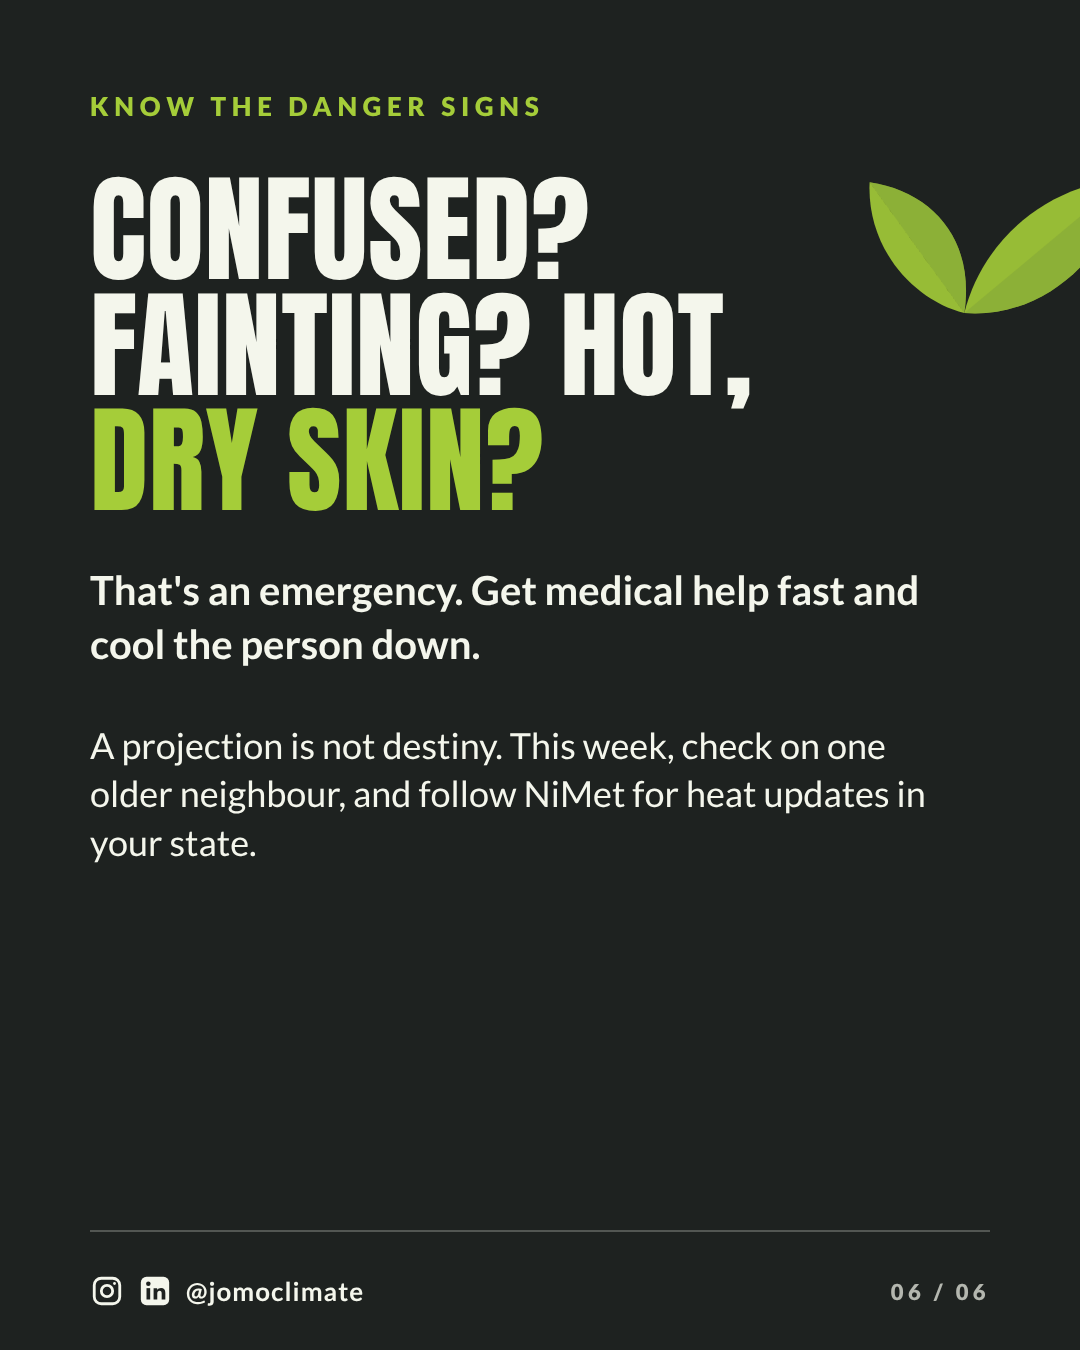
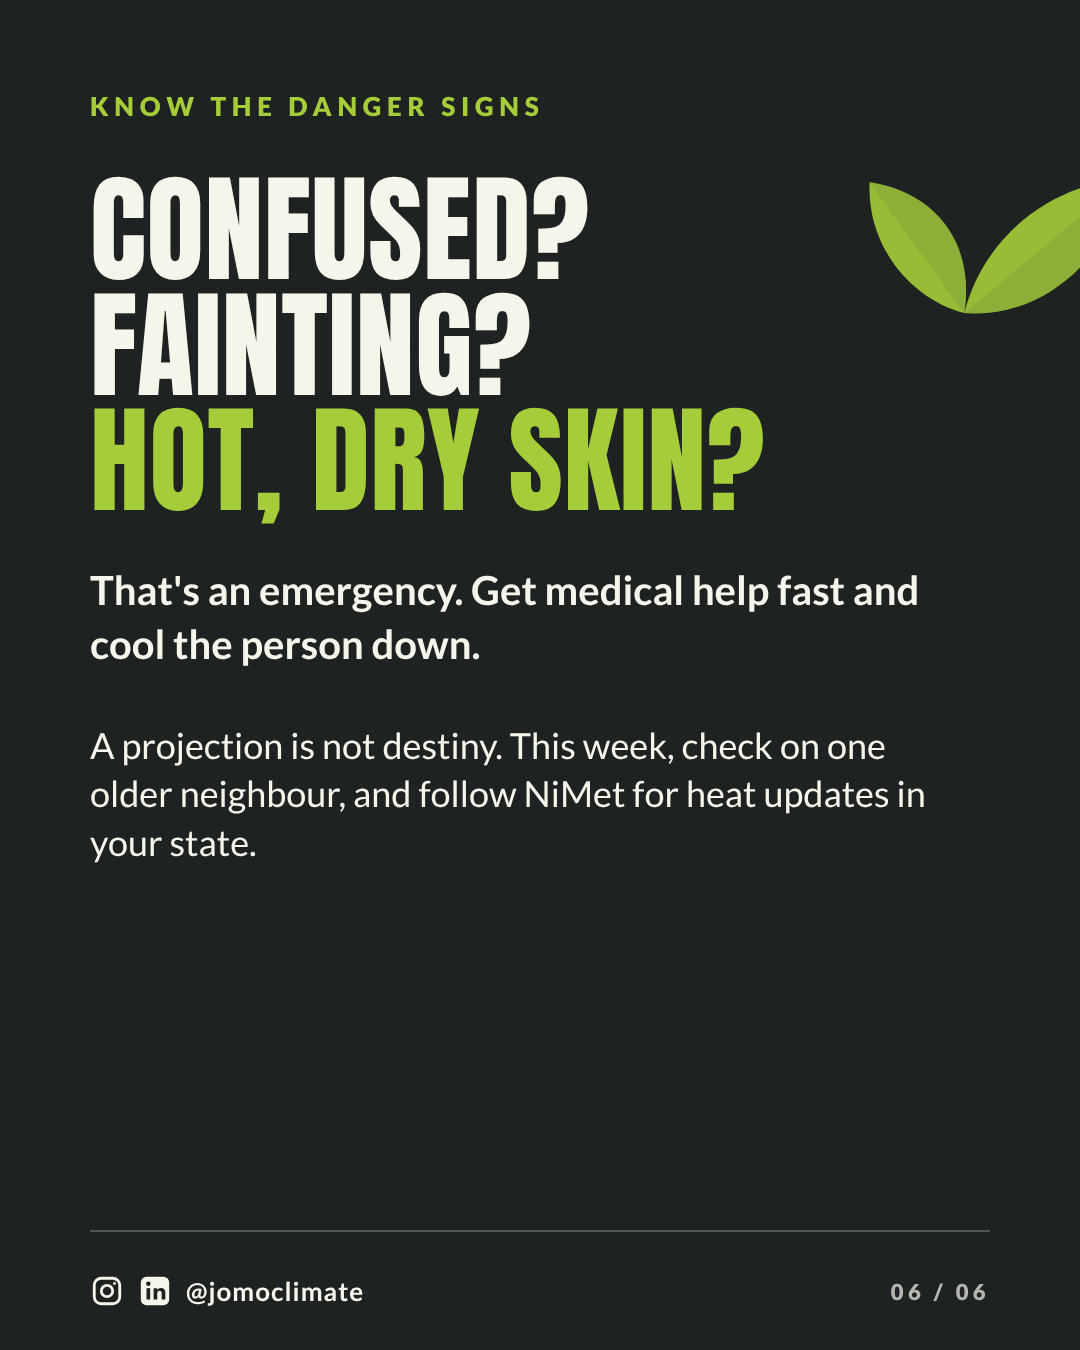
draft: 2026-10-24 super-el-nino policy review fixes (in review)
Claude-Session: https://claude.ai/code/session_01F6NcUsFQ3PsVvfZiAxD4Cd

Changed region(s): [[0.1528, 0.2178, 0.7028, 0.4044], [0.0917, 0.28, 0.1528, 0.3733]]

diff --git a/tools/elnino.py b/tools/elnino.py
@@ -12,7 +12,7 @@ def rel(html):  # keep content above the photo layer
 
 write("elnino-01", page(photo_bg() + rel(f"""
   <div class="label">Climate, explained locally</div>
-  <div class="h" style="font-size:150px;margin-top:70px">Super<br>El Ni&ntilde;o<br>is here.</div>
+  <div class="h" style="font-size:150px;margin-top:70px;line-height:1.12">Super<br>El Ni&ntilde;o<br>is here.</div>
   <div class="h acc" style="font-size:112px;margin-top:40px">Is your family<br>ready for<br>the heat?</div>
 """) + f"""
   <div class="tape" style="background:{LIME};color:{INK};left:90px;bottom:190px;transform:rotate(-4deg)">Swipe &rarr;</div>
@@ -52,7 +52,7 @@ write("elnino-05", page(f"""
   <div class="label">5 heat-smart habits</div>
   <div class="h" style="font-size:112px;margin-top:40px">Heat no be<br>small thing.</div>
   <div style="margin-top:20px">
-    {check("Drink water all day: at least 2 to 3 litres")}
+    {check("Adults: drink water all day,<br>at least 2 to 3 litres")}
     {check("Skip hard work in the hottest hours.<br>Find shade.")}
     {check("Open windows at night, close them<br>and block the sun by day")}
     {check("Light, loose clothes. Cool showers.")}
@@ -62,7 +62,7 @@ write("elnino-05", page(f"""
 
 write("elnino-06", page(f"""
   <div class="label">Know the danger signs</div>
-  <div class="h" style="font-size:118px;margin-top:50px">Confused?<br>Fainting? Hot,<br><span class="acc">dry skin?</span></div>
+  <div class="h" style="font-size:118px;margin-top:50px">Confused?<br>Fainting?<br><span class="acc">Hot, dry skin?</span></div>
   <div class="body" style="margin-top:44px;font-weight:700">That's an emergency. Get medical help fast and cool the person down.</div>
   <div class="body" style="margin-top:50px;font-size:36px;max-width:860px">A projection is not destiny. This week, check on one older neighbour, and follow NiMet for heat updates in your state.</div>
   {sprout(260, extra="right:-30px;top:120px;transform:rotate(14deg);opacity:.9")}
@@ -76,10 +76,10 @@ write("elnino-x-16x9", page(photo_bg("center 50%", ".55,.9") + rel(f"""
 """), "ink", 0, 0, 1600, 900))
 
 write("elnino-story-9x16", page(f"""
-  <div style="height:360px"></div>
+  <style>.foot{{bottom:260px}}</style><div style="height:290px"></div>
   <div class="label">Super El Ni&ntilde;o &middot; heat check</div>
   <div class="h" style="font-size:170px;margin-top:50px">Who are you<br><span class="acc">checking on</span><br>this week?</div>
   <div class="body" style="margin-top:70px;font-size:54px">Grandma. The baby. The neighbour who lives alone. The worker out in the sun all day.</div>
-  <div class="body" style="margin-top:60px;font-weight:700;font-size:54px">Water. Shade. A cool room.<br>And a knock on the door.</div>
+  <div class="body" style="margin-top:60px;font-weight:700;font-size:54px">Shade. A cool room.<br>And a knock on the door.</div>
 """, "ink", 0, 0, 1080, 1920))
 print("ok")

diff --git a/content/posts/2026-10-24-super-el-nino/review.md b/content/posts/2026-10-24-super-el-nino/review.md
@@ -23,3 +23,58 @@ Every source was opened, including the Climate Impact Lab (CIL) PDF report and t
 | "Many of them sit with employers, schools, health workers and community groups" | LinkedIn | JOMO framing, not a factual claim | OK |
 
 All links opened at check time.
+
+## Policy and Safety Review (Policy and Safety Reviewer)
+
+Checked against `references/safety-checklist.md` (all 13 checks), `voice.md`, `brand-guide.md` and `platforms.md`. All 8 PNGs viewed. I did not redo the fact-check. I could not re-open links myself because this session has no web access, so check 12 relies on the fact-checker's "all links opened". Nothing has been published or scheduled.
+
+### Checks that apply to every slot
+
+- **1 Accuracy:** relies on the fact-check above. One overreach in the LinkedIn hook is fixed (see below). One health-advice scope issue is fixed in the captions, but slide 5 still needs it (see below).
+- **2 Consent / 9 Copyright:** the only photo is `cracked-earth-nigeria-01.jpg` (Pexels, Jonathan Yakubu, Pexels License, free commercial use, no people, per `assets/photos/web/SOURCES.csv`). No consent is needed because no people are in it. I saw no watermark on slide 1 or the X image. The credit is on slide 1 and in the IG and FB captions; Pexels doesn't require one. No music and no partner logos. PASS.
+- **3 Engagement bait:** "Who will you check on this week?" is a reflective question. It doesn't ask people to comment, tag, react, share or vote. The story Question sticker ("Your best tip for staying cool?") is a genuine question using a native feature. The LinkedIn question is genuine. PASS.
+- **4 Apolitical:** I found no party, official, slogan or blame. The LinkedIn line "Many of them sit with employers, schools, health workers and community groups, not just with governments" spreads responsibility across groups. It doesn't criticise or credit any government, and it names no official. PASS.
+- **5 Boosting:** this is a public-health and climate post that mentions government-level measures (LinkedIn). If the operator boosts any of it on Meta, Meta may treat it as an ad about a social issue (health / environment). That can need advertiser authorisation and a "Paid for by" disclaimer. Organic posting is not affected. **Recommendation: don't boost**, or complete Meta's ad authorisation first.
+- **6 No shaming:** no people are shown. The child-in-car line is advice, not blame. PASS.
+- **7 Climate claims / hope:** handled responsibly. Every slot that states the figure also says it is a projection, not a count. Slide 2, IG, FB, LinkedIn and X post 1 add that the method is not yet in a peer-reviewed journal. The X image omits that caveat, but X post 1 carries it. The figure is scoped to one study and the Sept 2026 to Feb 2027 window. Fear always comes with a way forward: who to look out for, five habits, danger signs, "a projection is not destiny", and a single small ask ("check on one older neighbour", "follow NiMet"). This meets the "problem, then an action" rule in voice.md. "Super El Niño" is the Climate Impact Lab's term, not NOAA's. The NOAA odds are quoted alongside it, so this is acceptable.
+- **8 AI:** none used. **10 Partners:** none named or tagged. CIL, WHO, NOAA and NiMet are cited as sources, not as partners. **11 Fundraising:** none. **13 Hate/safety:** nothing found. PASS.
+- **12 Links and handles:** the full URLs are official domains (impactlab.org, who.int, cdn.who.int) with no shorteners. @jomoclimate is correct on all 8 PNGs. NiMet is named but not tagged, so there is no handle risk. If the operator wants to tag NiMet, verify its official handle first.
+
+### Slot verdicts
+
+**1. Sat 2026-10-24 18:00 · IG + FB carousel: FIX**
+- Health scope (caption edit applied). The FB caption said "Drink water all day: at least 2 to 3 litres" right after "babies and young children". 2–3 litres is an adult amount, and the line could be read as advice for babies. Edit: `1. Drink water all day: at least 2 to 3 litres.` → `1. Drink water all day: at least 2 to 3 litres for adults.`
+- Slide 5 (not changed, needs Designer): it says "Drink water all day: at least 2 to 3 litres". Suggested text: "Adults: drink water all day, at least 2 to 3 litres". Update the slide 5 alt text to match.
+- Slide 1 (not changed, needs Designer): at this size, the tilde on "NIÑO" seems to collide with the "R" of "SUPER" in the line above. "SUPER" then reads like "SUPEB" and the tilde isn't clear. Increase the line spacing between lines 1 and 2, or check that the Ñ glyph renders. Then check at full size (brand layout rule).
+- Slide 6 (optional): the headline break "FAINTING? HOT, / DRY SKIN?" splits one sign across two lines. A cleaner break is "CONFUSED? / FAINTING? / HOT, DRY SKIN?". The leaf shape sits clear of the text. OK.
+- Platform rules: IG has 4 hashtags at the end (within 3 to 5) and no live links (sources named in plain text). FB links are in the caption. The hook is on the first line. OK.
+
+**2. Sat 2026-10-24 18:30 · X thread: FIX**
+- Same health scope issue (edit applied): `water all day (at least 2–3 litres)` → `water all day (adults: at least 2–3 litres)`.
+- Character counts after the edit (links counted as 23, 🧵 as 2, ñ and en dash as 1): post 1 about 241, post 2 about 150, post 3 about 254, post 4 about 132. All are under 280. 1 hashtag (#ElNino), within 1 to 2. OK.
+- X image: the handle is correct, the text is clear of the edges, and no watermark. OK.
+
+**3. Sun 2026-10-25 10:00 · LinkedIn: FIX**
+- Overreach in the line shown before "see more" (edit applied). "the highest heat death toll" suggests total heat deaths, but the study counts *extra* heat-related deaths against an average year. Edit: `One study projects Nigeria will have the highest heat death toll of any country between September 2026 and February 2027.` → `One study projects more extra heat-related deaths in Nigeria than in any other country between September 2026 and February 2027.` The Hook line was changed the same way.
+- 2 hashtags, no emoji, the opening lines make sense alone, and the post ends with a genuine question and the study link. Apolitical line: PASS (see check 4).
+
+**4. Sun 2026-10-25 16:00 · IG + FB story: FIX**
+- Sticker placement (instruction edit applied). The old instruction put both the Question and link stickers "in the empty space below the text". That leaves only about 150px before the bottom 250px safe zone, which is too little for two stickers. New instruction: Question sticker below the text, WHO link sticker in the empty space above the label, both clear of text and of the top and bottom 250px. The exact WHO URL is now given, and there is a fallback if Facebook stories has no Question sticker.
+- Story image (not changed, needs Designer): the @jomoclimate handle bar sits at about y 1800–1880, inside the bottom 250px where the reply bar covers it (brand layout rule). Move the rule and handle up to about y 1600–1660, or accept that it may be hidden.
+- Optional: "The baby." followed by "Water. Shade. A cool room." could read as "give the baby water". This is lower risk than slide 5 because no amount is given. The operator decides.
+
+### Operator items
+1. Slides 1, 5 and the story need Designer re-renders before the carousel goes up today at 18:00 WAT. If there isn't time, decide whether to post with the current slides (the slide 5 adult-water wording is the one I'd most want fixed).
+2. Decide on boosting. Recommendation: organic only. If boosting on Meta, complete social-issue ad authorisation first (check 5).
+3. Confirm the caption edits above (FB habit 1, X post 3, LinkedIn opening line and hook).
+4. `content/calendar/calendar.csv` is out of date. Rows 5 and 7 still say "not peer-reviewed" and use the old LinkedIn hook. Update them when you change the status (I didn't edit the calendar).
+5. If you want to tag NiMet, verify its official handle first.
+6. Approve each slot individually in this session before anything is scheduled or posted. X is posted by hand.
+
+## Designer follow-up (after the policy review)
+
+- Slide 1: headline line spacing increased; the Ñ tilde no longer touches "SUPER". Checked at full size.
+- Slide 5: now "Adults: drink water all day, at least 2 to 3 litres"; alt text matches.
+- Slide 6: headline breaks as "Confused? / Fainting? / Hot, dry skin?".
+- Story: handle bar moved up out of the bottom 250px. "Water." dropped from "Water. Shade. A cool room." so it can't read as advice to give a baby water; alt text matches.
+- Calendar rows updated to the fact-checked wording.

diff --git a/content/posts/2026-10-24-super-el-nino/captions.md b/content/posts/2026-10-24-super-el-nino/captions.md
@@ -57,7 +57,7 @@ Alt text (one per slide):
 2. Lime green slide. Large "31,400", then "more heat-related deaths in Nigeria. September 2026 to February 2027, compared with an average year. Source: Climate Impact Lab, University of Chicago, Sept 2026. A model projection, not a count. Method not yet published in a peer-reviewed journal."
 3. Dark slide. "Wait, what is El Niño? A natural warming of the Pacific Ocean that shifts weather around the world. This one is unusually strong. US weather agency NOAA puts the chance of a strong to very strong El Niño through January–March 2027 at more than 83%. Researchers call this heat a 'postcard from the future': close to what climate change is projected to bring in about 20 years."
 4. Light slide. "Who to look out for": people over 65; babies and young children; people with heart, lung or kidney conditions; outdoor workers, such as farmers; anyone who lives alone.
-5. Lime slide. "Heat no be small thing." Five ticks: drink water all day, at least 2 to 3 litres; skip hard work in the hottest hours, find shade; open windows at night, close them and block the sun by day; light, loose clothes, cool showers; never leave a child in a parked car.
+5. Lime slide. "Heat no be small thing." Five ticks: adults: drink water all day, at least 2 to 3 litres; skip hard work in the hottest hours, find shade; open windows at night, close them and block the sun by day; light, loose clothes, cool showers; never leave a child in a parked car.
 6. Dark slide with a lime leaf shape. "Confused? Fainting? Hot, dry skin? That's an emergency. Get medical help fast and cool the person down. A projection is not destiny. This week, check on one older neighbour, and follow NiMet for heat updates in your state."
 
 ---
@@ -126,7 +126,7 @@ Alt text: Lime green graphic. Large "31,400", then "more heat-related deaths in 
 Hook: Who are you checking on this week?
 Visual: `visuals/elnino-story-9x16.png`. Add the "Question" sticker in the app (prompt: "Your best tip for staying cool?") in the empty space below the text, and a link sticker (label "WHO heat advice", URL https://www.who.int/news-room/fact-sheets/detail/climate-change-heat-and-health) in the empty space above the "Super El Niño · heat check" label. Keep both stickers clear of the text and out of the top and bottom 250px. If Facebook stories doesn't offer the Question sticker, post the Facebook story with the link sticker only.
 
-Story text is on the image. Alt text: Dark story. "Super El Niño · heat check. Who are you checking on this week? Grandma. The baby. The neighbour who lives alone. The worker out in the sun all day. Water. Shade. A cool room. And a knock on the door."
+Story text is on the image. Alt text: Dark story. "Super El Niño · heat check. Who are you checking on this week? Grandma. The baby. The neighbour who lives alone. The worker out in the sun all day. Shade. A cool room. And a knock on the door."
 
 ---
 
